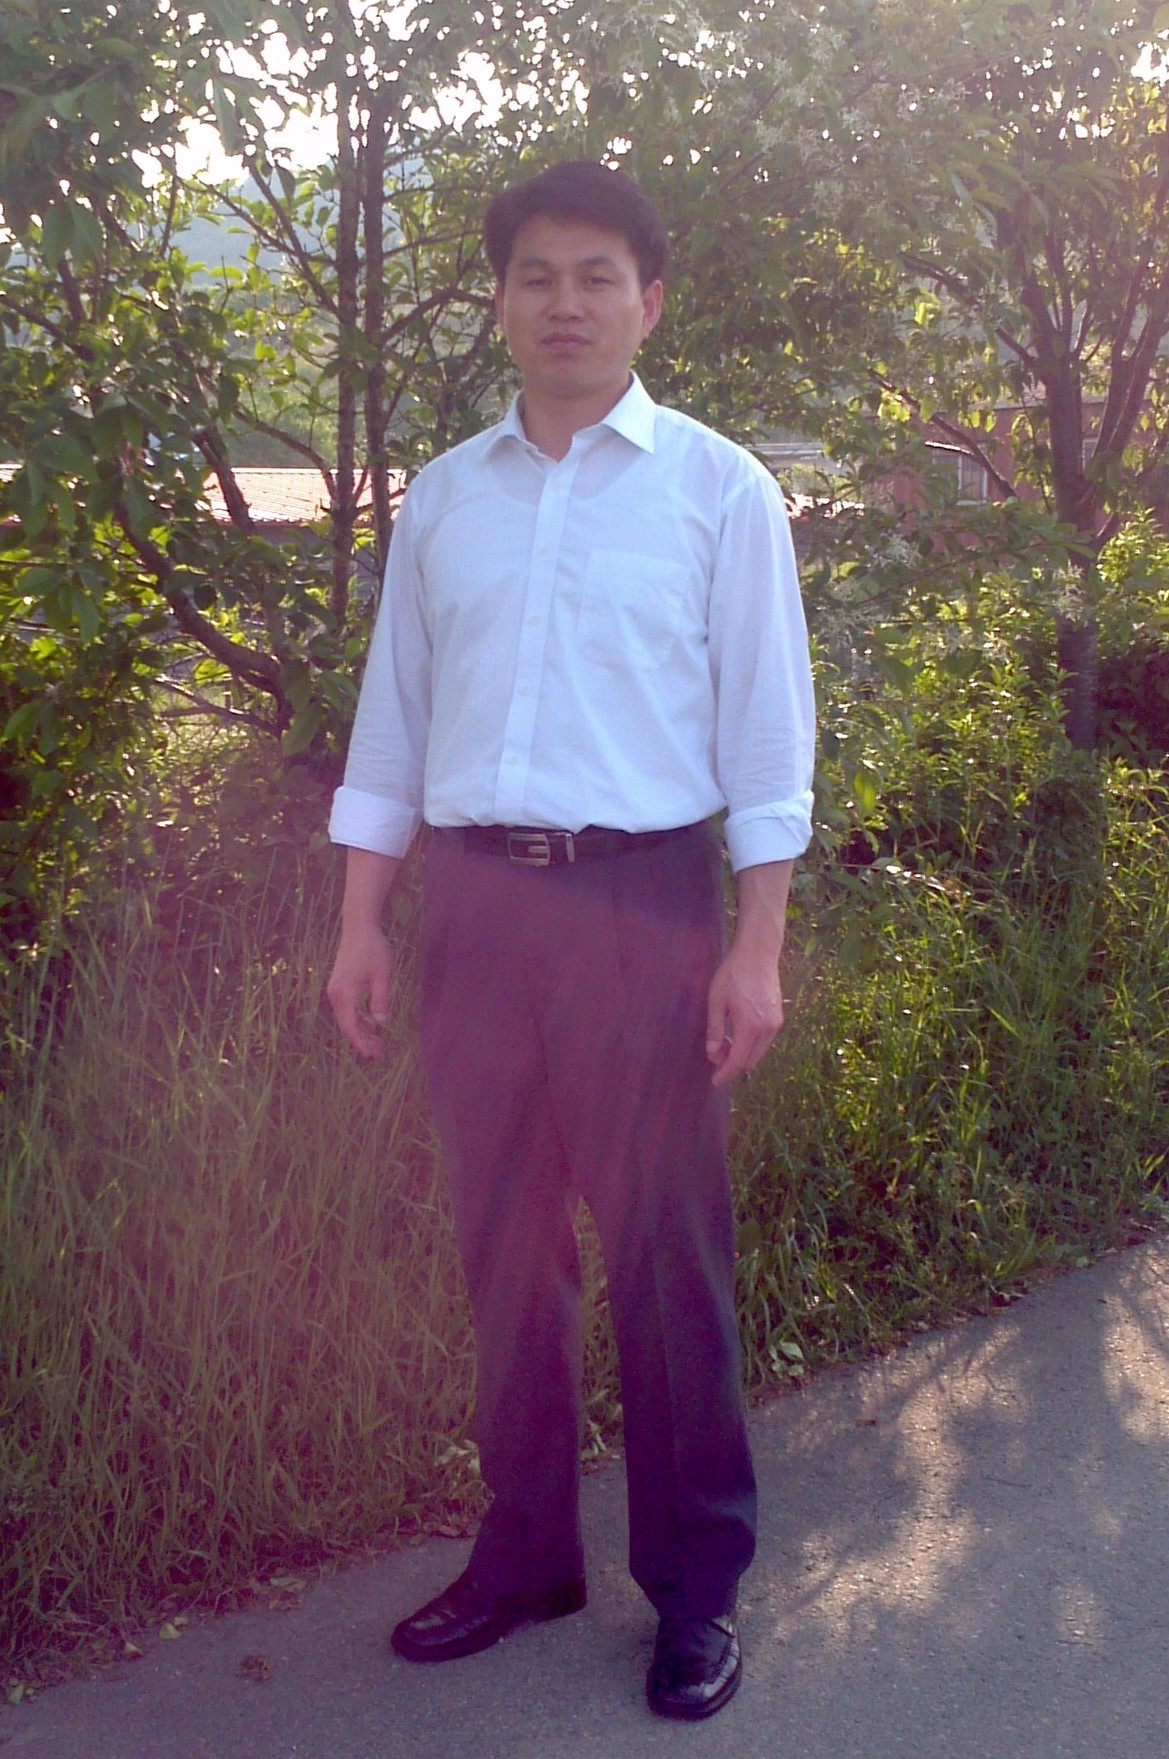
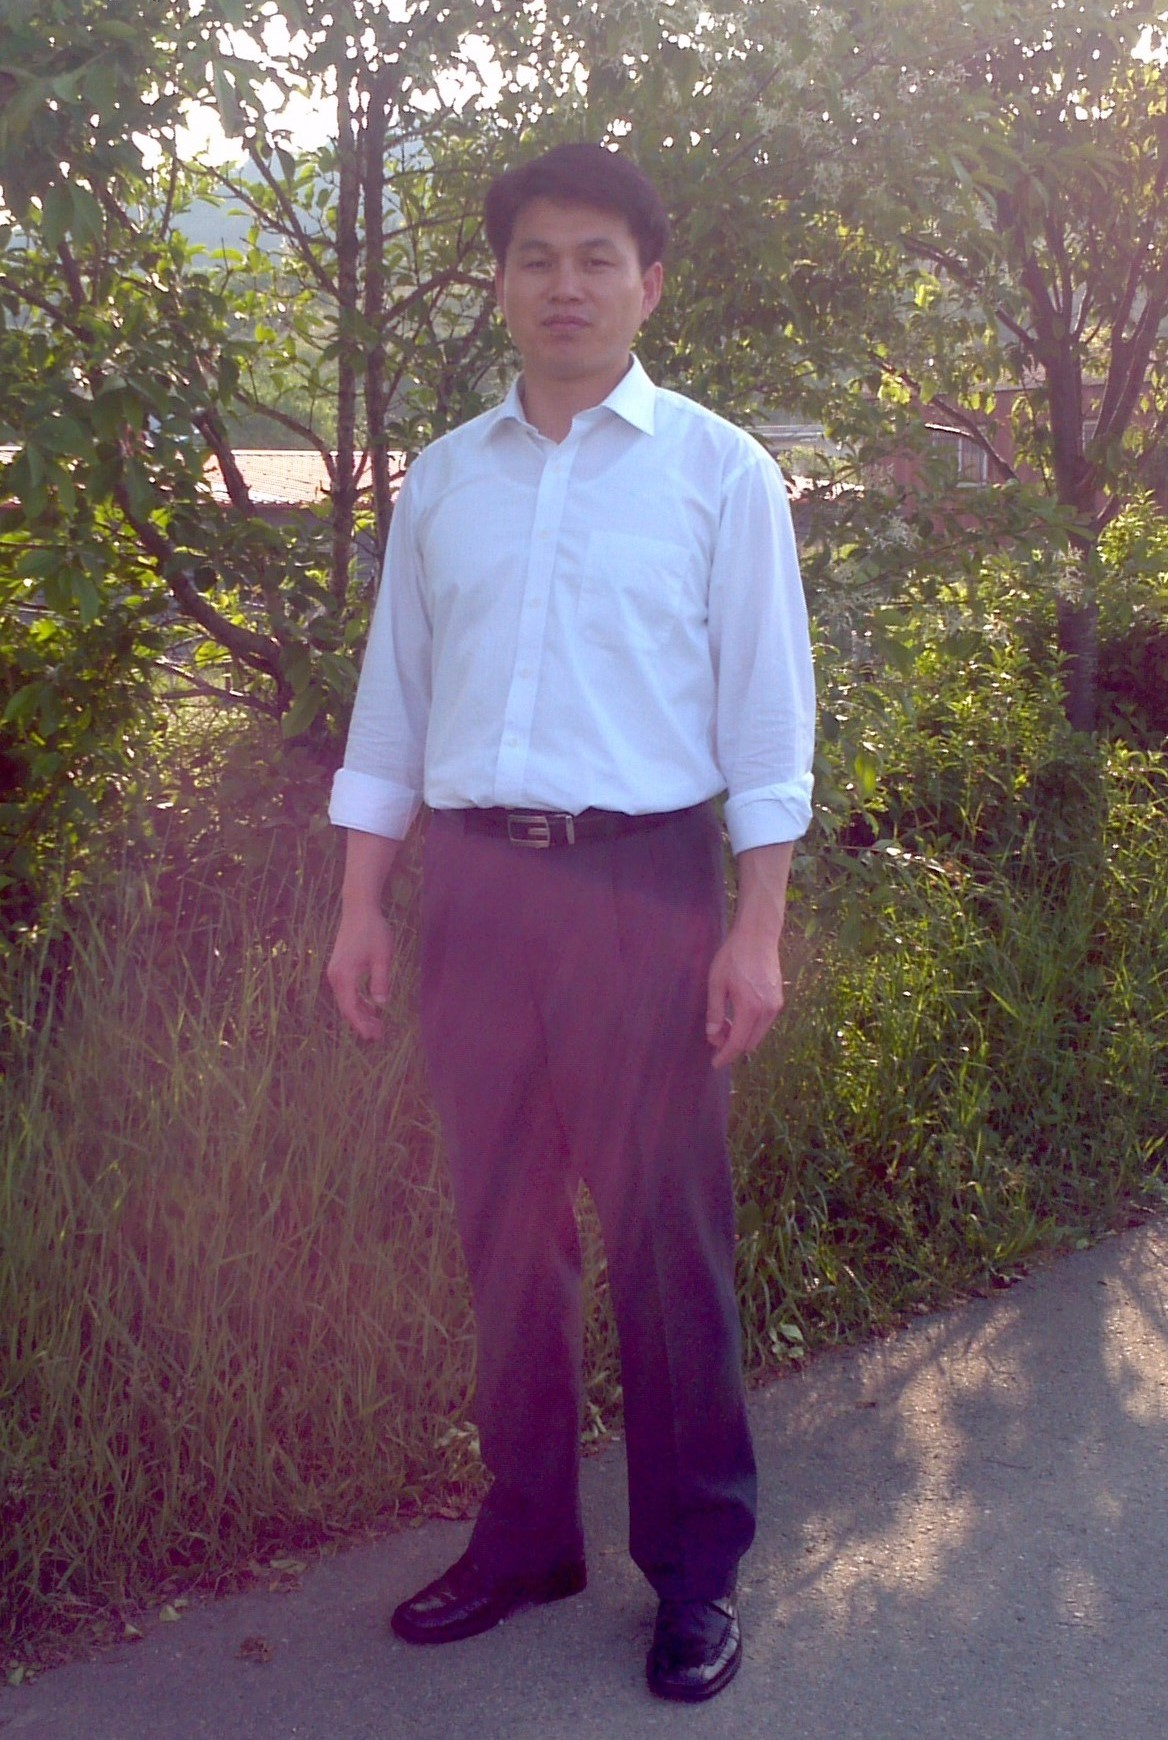
Feat: add Contribution & modified img

diff --git a/front/src/components/Layout/Contribution.tsx b/front/src/components/Layout/Contribution.tsx
@@ -1,0 +1,85 @@
+import React, { useEffect } from "react";
+import AOS from "aos"; // AOS import
+import "aos/dist/aos.css";
+import {
+  Wrap,
+  ImgBox,
+  DivideBox,
+  ContentsBox,
+  ContentsDiv,
+  InfoDiv,
+  InfoTitleDiv,
+  Img,
+  P,
+  ContributionInnerItem,
+  ContributionItem,
+} from "../../styles/Intro";
+import Sidebar from "../Sidebar/Sidebar";
+import Rainbow250 from "../../img/rainbowVer250.png";
+
+interface contribution {
+  title: string;
+  desc: string;
+  bank: string;
+  account: string;
+}
+
+export default function Contribution() {
+  useEffect(() => {
+    AOS.init();
+  });
+  const contributionItem: contribution[] = [
+    {
+      title: "온라인 계좌 1",
+      desc: "십일조, 감사, 건축헌금은 아래의 계좌로 송금해주세요.",
+      bank: "새마을 금고 추수하는교회",
+      account: "9002-1772-8031-6",
+    },
+    {
+      title: "온라인 계좌 2",
+      desc: "선교헌금은 아래의 계좌로 송금해주세요.",
+      bank: "대구은행 추수하는교회",
+      account: "504-10-136431-6",
+    },
+  ];
+  return (
+    <Wrap>
+      <div style={{ height: "80px" }}></div>
+      <ImgBox>
+        <Img
+          src={Rainbow250}
+          alt=""
+          width="100%"
+          height="100%"
+          margin="0 0 -5px 0"
+        />
+      </ImgBox>
+      <DivideBox>
+        <Sidebar title="온라인 헌금" />
+        <ContentsBox>
+          <InfoTitleDiv fontsize="20px">온라인 헌금</InfoTitleDiv>
+          <ContentsDiv data-aos="fade-up" data-aos-duration="800">
+            <InfoDiv>
+              <ContributionItem>
+                {contributionItem.map((worship, index) => {
+                  return (
+                    <ContributionInnerItem key={index}>
+                      <h2>{worship.title}</h2>
+                      <p>{worship.desc}</p>
+                      <P>{worship.bank} </P>
+                      <P>
+                        <span style={{ fontSize: "22px", fontWeight: "bold" }}>
+                          {worship.account}
+                        </span>
+                      </P>
+                    </ContributionInnerItem>
+                  );
+                })}
+              </ContributionItem>
+            </InfoDiv>
+          </ContentsDiv>
+        </ContentsBox>
+      </DivideBox>
+    </Wrap>
+  );
+}

diff --git a/front/src/styles/Intro.tsx b/front/src/styles/Intro.tsx
@@ -44,7 +44,7 @@ export const SidebarBox = styled(Flex)`
   position: -webkit-sticky;
   position: sticky;
   top: 50px;
-  height: 700px;
+  height: 750px;
   flex-flow: column wrap;
   gap: 30px;
   flex: 2;
@@ -154,6 +154,7 @@ export const WorshipInnerItem = styled(Flex)`
   flex-flow: column wrap;
   justify-content: space-between;
   align-items: center;
+  gap: 20px;
 
   @media ${(props) => props.theme.mobile} {
     width: 50%;
@@ -161,7 +162,7 @@ export const WorshipInnerItem = styled(Flex)`
 `;
 export const P = styled.p`
   // border-bottom: 1px double ${theme.mainColor};
-  border-bottom: 1px double lightgrey;
+  border-bottom: 2px double lightgrey;
 `;
 // Pastor 적용
 export const PastorDiv = styled(Flex)`
@@ -181,4 +182,28 @@ export const PastorItem = styled(Flex)`
   padding: 15px;
   margin: 15px;
   gap: 5px;
+`;
+// Contribution 적용
+export const ContributionItem = styled(Flex)`
+  border-left: 2px solid ${theme.mainColor};
+  border-right: 2px solid ${theme.mainColor};
+  border-radius: 20px;
+  width: 100%;
+  height: 100%;
+  margin: 20px 0 0 0;
+  justify-content: center;
+  align-items: center;
+  flex-flow: row wrap;
+
+  @media ${(props) => props.theme.mobile} {
+    flex-flow: column wrap;
+    gap: 50px;
+  }
+`;
+export const ContributionInnerItem = styled(Flex)`
+  width: 45%;
+  flex-flow: column wrap;
+  justify-content: space-between;
+  align-items: center;
+  gap: 20px;
 `;

diff --git a/front/src/App.tsx b/front/src/App.tsx
@@ -19,6 +19,7 @@ import Login from "./components/Layout/Login";
 import MakeSermon from "./components/Layout/MakeSermon";
 import ShowSermon from "./components/Layout/ShowSermon";
 import PostUpdataDefault from "./components/Layout/PostUpdataDefault";
+import Contribution from "./components/Layout/Contribution";
 
 function App() {
   return (
@@ -36,6 +37,7 @@ function App() {
         <Route path="/worship" element={<Worship />} />
         <Route path="/makepost" element={<MakePost />} />
         <Route path="/pastor" element={<Pastor />} />
+        <Route path="/contribution" element={<Contribution />} />
         <Route path="/showpost/:id" element={<ShowPost />}></Route>
         <Route path="/login" element={<Login />} />
         <Route path="/makesermon" element={<MakeSermon />} />

diff --git a/front/src/components/Sidebar/Sidebar.tsx b/front/src/components/Sidebar/Sidebar.tsx
@@ -26,6 +26,7 @@ function Sidebar(prop: prop) {
     { name: "교회 소식", path: "/news", id: "news" },
     { name: "교회 앨범", path: "/album", id: "album" },
     { name: "예배 시간", path: "/worship", id: "worship" },
+    { name: "온라인 헌금", path: "/contribution", id: "contribution" },
     { name: "교회 오시는 길", path: "/location", id: "location" },
   ];
   const GetClick = (e: E) => {
@@ -44,7 +45,8 @@ function Sidebar(prop: prop) {
         "/news" ||
         "/album" ||
         "/location" ||
-        "/worship" ? (
+        "/worship" ||
+        "/contribution" ? (
           intro_menus.map((menu, index) => {
             return (
               <Link

diff --git a/front/src/components/Introduction/IntroPastor.tsx b/front/src/components/Introduction/IntroPastor.tsx
@@ -1,15 +1,15 @@
 import React from "react";
 import { InfoDiv, FloatImg, IntroTitle } from "../../styles/Intro";
-import pastor2 from "../../img/pastor2.jpg";
+import pastor1 from "../../img/pastor1.jpg";
 
 export default function IntroPastor() {
   return (
     <InfoDiv>
       <FloatImg
-        src={pastor2}
+        src={pastor1}
         alt=""
-        width="340px"
-        height="440px"
+        width="330px"
+        height="470px"
         float="left"
       />
       <div>
